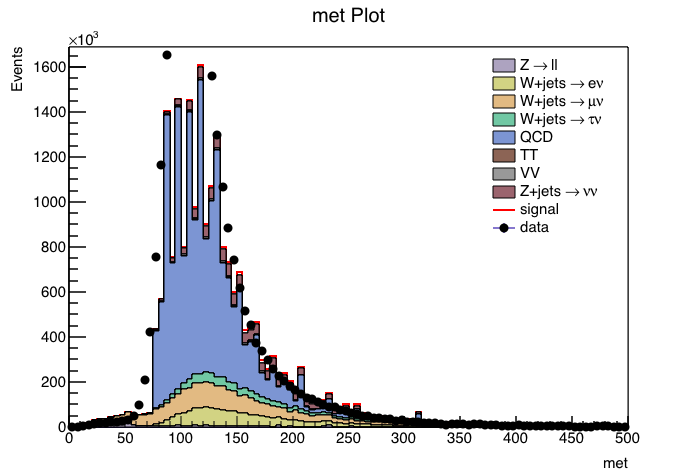
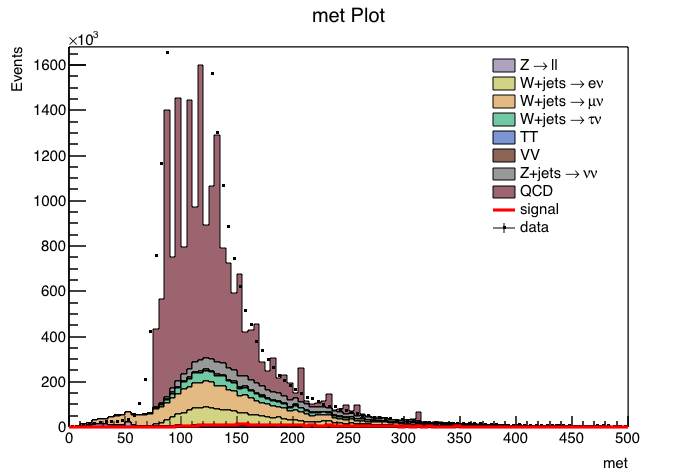
all variables present

diff --git a/include/analysis.h b/include/analysis.h
@@ -150,11 +150,79 @@ const char* data_legend = "data";
 
 //total_weight_lepveto
 
-//dijet_deta -- 0 - 8.5
-//ht 0 400
-//met -200 200
-//alljetsmet_mindphi 0 - 3.5
-//dijet_M 0 - 3000
+const char* varsss[][4] = {
+                              {"jet1_pt", "0.0", "600.0", "right"},
+                              {"jet2_pt", "0.0", "600.0", "right"},
+                              {"jet3_pt", "0.0", "600.0", "right"},
+                              {"jet1_E", "0.0", "5000.0", "right"},
+                              {"jet2_E", "0.0", "5000.0", "right"},
+                              {"jet3_E", "0.0", "5000.0", "right"},
+                              {"jet1_eta", "-5.0", "5.0", "left"},
+                              {"jet2_eta", "-5.0", "5.0", "left"},
+                              {"jet3_eta", "-5.0", "5.0", "left"},
+                              {"forward_tag_eta", "-5.0", "5.0", "left"},
+                              {"central_tag_eta", "-5.0", "5.0", "left"},
+                              {"jet1_phi", "-4.0", "4.0", "left"},
+                              {"jet2_phi", "-4.0", "4.0", "left"},
+                              {"jet3_phi", "-4.0", "4.0", "left"},
+                              {"jet_csv1", "-1.5", "1.5", "left"},
+                              {"jet_csv2", "-1.5", "1.5", "left"},
+                              {"jet_csv3", "-1.5", "1.5", "left"},
+                              {"dijet_M", "0.0", "4000.0", "right"},
+                              {"dijet_deta", "3.0", "8.0", "right"},
+                              {"dijet_sumeta", "-6.0", "6.0", "left"},
+                              {"dijet_dphi", "0.0", "4.0", "left"},
+                              {"met", "0.0", "400.0", "right"},
+                              {"met_x", "-400.0", "400.0", "left"},
+                              {"met_y", "-400.0", "400.0", "left"},
+                              {"metnomu_x", "-400.0", "400.0", "left"},
+                              {"metnomu_y", "-400.0", "400.0", "left"},
+                              {"met_significance", "0.0", "12.0", "right"},
+                              {"metnomu_significance", "2.0", "12.0", "right"},
+                              {"sumet", "0.0", "2400.0", "right"},
+                              {"ht", "0.0", "1200.0", "right"},
+                              {"ht30", "0.0", "1200.0", "right"},
+                              {"mht", "0.0", "3000.0", "right"},
+                              {"sqrt_ht", "0.0", "35.0", "right"},
+                              {"unclustered_et", "0.0", "2000.0", "right"},
+                              {"jet1met_dphi", "0.0", "3.5", "left"},
+                              {"jet2met_dphi", "0.0", "3.5", "right"},
+                              {"jet1metnomu_dphi", "0.0", "3.5", "left"},
+                              {"jet2metnomu_dphi", "0.0", "3.5", "right"},
+                              {"jetmet_mindphi", "0.0", "3.5", "right"},
+                              {"jetmetnomu_mindphi", "0.0", "3.5", "right"},
+                              {"alljetsmet_mindphi", "2.2", "3.2", "right"},
+                              {"alljetsmetnomu_mindphi", "0.0", "3.5", "right"},
+                              {"jetunclet_mindphi", "0.0", "3.5", "right"},
+                              {"metunclet_dphi", "0.0", "3.5", "right"},
+                              {"metnomuunclet_dphi", "0.0", "3.5", "right"},
+                              {"dijetmet_scalarSum_pt", "0.0", "1200.0", "right"},
+                              {"dijetmet_vectorialSum_pt", "0.0", "400.0", "right"},
+                              {"dijetmet_ptfraction", "0.0", "1.0", "right"},
+                              {"jet1met_scalarprod", "-600.0", "600.0", "right"},
+                              {"jet2met_scalarprod", "-400.0", "400.0", "left"},
+                              {"dijetmetnomu_scalarSum_pt", "0.0", "1200.0", "right"},
+                              {"dijetmetnomu_vectorialSum_pt", "0.0", "400.0", "right"},
+                              {"dijetmetnomu_ptfraction", "0.0", "1.0", "right"},
+                              {"jet1metnomu_scalarprod", "-2000.0", "2000.0", "left"},
+                              {"jet2metnomu_scalarprod", "-2000.0", "2000.0", "left"},
+                              {"n_jets_cjv_30", "0.0", "6.0", "right"},
+                              {"n_jets_cjv_20EB_30EE", "0.0", "8.0", "right"},
+                              {"n_jets_15", "0.0", "14.0", "right"},
+                              {"n_jets_30", "1.0", "10.0", "right"},
+                              {"cjvjetpt", "-10.0", "200.0", "right"},
+                              {"l1met", "0.0", "400.0", "right"},
+                              {"metnomuons", "0.0", "400.0", "right"},  
+                              {"nvetomuons", "0.0", "3.0", "right"},
+                              {"nselmuons", "0.0", "3.0", "right"},
+                              {"nvetoelectrons", "0.0", "3.0", "right"},
+                              {"nselelectrons", "0.0", "3.0", "right"},
+                              {"ntaus", "0.0", "3.0", "right"},
+                              {"m_mumu", "-20.0", "20.0", "right"},
+                              {"m_ee", "-20.0", "20.0", "right"},
+                              {"m_mumu_gen", "-20.0", "20.0", "right"},
+                              {"n_vertices", "0.0", "30.0", "right"}
+                             };
 
 #endif
 

diff --git a/include/plotting.h b/include/plotting.h
@@ -4,10 +4,9 @@
 #include <TStyle.h>
 #include <THStack.h>
 #include <TLegend.h>
-#include <TH2.h>
 #include "data_chain.h"
 
-void draw_stacked_histoplots(std::vector<DataChain*> bg_chains, DataChain* signal_chain, DataChain* data, const char* variable_name, const char* selection,const char* x_min, const char* x_max, const char* leg_pos, bool plot_signal, bool plot_background, bool plot_data) {
+void draw_stacked_histoplots(std::vector<DataChain*> bg_chains, DataChain* signal_chain, DataChain* data, const char* variable_name, const char* selection,const char* x_min, const char* x_max, const char* leg_pos) {
   //const char* plot_title = build_string({variable_name, " Plot"});
   std::string title_parts(variable_name);
   title_parts.append(" Plot");
@@ -30,28 +29,19 @@ void draw_stacked_histoplots(std::vector<DataChain*> bg_chains, DataChain* signa
   int colours[8] = {40, 41, 42, 30, 38, 28, 15, 49};
 
   std::cout << "setup canvas, legend and plot" << std::endl;
-   if(plot_background) { // checks for background input
-  	for(int i = 0; i < bg_chains.size(); i++) {
-  	  TH1F* single_bg_histo = bg_chains[i]->histo_for_stack(false, variable_name, selection, x_min, x_max, colours[i]);
-  	  hs.Add(single_bg_histo);
-  	  legend->AddEntry(single_bg_histo, bg_chains[i]->legend, "f");
-  	  std::cout << "histograms added to stack fine" << std::endl;
- 	 }
-  }
-  if(plot_signal) {
-    TH1F* signal_histo = signal_chain->histo_for_stack(true, variable_name, selection, x_min, x_max, 0);
-    hs.Add(signal_histo);
-    legend->AddEntry(signal_histo, signal_chain->legend, "l");
-    std::cout << "signal added to stack fine" << std::endl;
-  }
+  for(int i = 0; i < bg_chains.size(); i++) {
+  	TH1F* single_bg_histo = bg_chains[i]->histo_for_stack(false, variable_name, selection, x_min, x_max, colours[i]);
+  	hs.Add(single_bg_histo);
+  	legend->AddEntry(single_bg_histo, bg_chains[i]->legend, "f");
+  	std::cout << "histograms added to stack fine" << std::endl;
+ 	}
+
+  TH1F* signal_histo = signal_chain->histo_for_stack(true, variable_name, selection, x_min, x_max, 0);
+  legend->AddEntry(signal_histo, signal_chain->legend, "l");
+
   TH1F* data_histo = data->draw_data(variable_name, selection, x_min, x_max);
-  if(plot_data) {
-    legend->AddEntry(data_histo, data->legend, "lep");
+  legend->AddEntry(data_histo, data->legend, "lep");
     
-  	if(!(plot_signal&plot_background)){
- 		hs.Add(data_histo);
-  	}
-  }
   std::string file_parts(variable_name);
   file_parts.append("_");
   file_parts.append(selection);
@@ -61,6 +51,7 @@ void draw_stacked_histoplots(std::vector<DataChain*> bg_chains, DataChain* signa
 
   hs.Draw();
   data_histo->Draw("SAME");
+  signal_histo->Draw("SAME");
   std::cout << "data added to plot fine" << std::endl;
   hs.GetYaxis()->SetTitle("Events");
   hs.GetYaxis()->SetLabelSize(0.035);

diff --git a/src/main.cpp b/src/main.cpp
@@ -3,7 +3,7 @@
 #include "analysis.h"
 #include <initializer_list>
 
-void produce_graphs(bool plot_signal, bool plot_background, bool plot_data) {
+void produce_graphs() {
   DataChain* bg_zll = new DataChain(z_ll, z_ll_label, z_ll_legend);
   DataChain* bg_wjets_ev = new DataChain(wjets_ev, wjets_ev_label, wjets_ev_legend);
   DataChain* bg_wjets_muv = new DataChain(wjets_muv, wjets_muv_label, wjets_muv_legend);
@@ -17,12 +17,8 @@ void produce_graphs(bool plot_signal, bool plot_background, bool plot_data) {
   DataChain* data_chain = new DataChain(data, data_label, data_legend);
 
   const char* weight = "total_weight_lepveto";
-  const char* vars[5][4] = { 
-                        {"dijet_deta", "3.0", "8.5", "right"},
-                        {"ht", "0.0", "400.0", "left"}, 
-                        {"met", "0.0", "500.0", "right"}, 
-                        {"alljetsmet_mindphi", "0.0", "3.5", "left"}, 
-                        {"dijet_M", "0.0", "3000.0", "right"} 
+  const char* vars[1][4] = { 
+                        {"alljetsmet_mindphi", "2.2", "3.2", "right"}
                       };
 
   for(int i = 0; i < 5; i++) {
@@ -35,15 +31,15 @@ void produce_graphs(bool plot_signal, bool plot_background, bool plot_data) {
     const char* x_min = vars[i][1];
     const char* x_max = vars[i][2];
 	//create vector of datachain pointers
-  DataChain* bg_arr[] ={bg_zll, bg_wjets_ev, bg_wjets_muv, bg_wjets_tauv,bg_qcd, bg_top, bg_vv, bg_zjets_vv}; // create array of pointers
+  DataChain* bg_arr[] = {bg_zll, bg_wjets_ev, bg_wjets_muv, bg_wjets_tauv, bg_top, bg_vv, bg_zjets_vv, bg_qcd}; // create array of pointers
   std::vector<DataChain*> bg (bg_arr, bg_arr+ sizeof(bg_arr)/sizeof(DataChain*));
-  draw_stacked_histoplots(bg, mc_signal, data_chain, vars[i][0], selection, x_min, x_max, vars[i][3],plot_signal,plot_background,plot_data);
+  draw_stacked_histoplots(bg, mc_signal, data_chain, vars[i][0], selection, x_min, x_max, vars[i][3]);
   }
 }
 
 int main(int argc, char** argv) {
   TApplication theApp("tapp", &argc, argv);
-  produce_graphs(true,true,true);
+  produce_graphs();
 
   theApp.Run();
   

diff --git a/src/data_chain.cpp b/src/data_chain.cpp
@@ -39,7 +39,7 @@ TH1F* DataChain::histo_for_stack(bool is_signal, const char* variable_name, cons
 
   set_histo_style(is_signal, fill_colour);
 
-  chain->Draw(histo_id, selection); 
+  chain->Draw(histo_id, selection, "goff"); 
 
   TH1F* histo = (TH1F*)gDirectory->Get(label); // get histo from current directory
   //histo->GetXaxis()->SetRange(x_min, x_max);
@@ -65,11 +65,13 @@ TH1F* DataChain::draw_data(const char* variable_name, const char* selection, con
   const char* histo_id = draw_histo.c_str();
 
   chain->Draw(histo_id, selection, "E1"); 
-  chain->SetMarkerStyle(20);
+  chain->SetMarkerStyle(7);
   chain->SetMarkerColor(1);
+  chain->SetLineColor(1);
   gROOT->ForceStyle();
 
   TH1F* histo = (TH1F*)gDirectory->Get(label);
+  set_error_bars(histo);
 
   if (histo) {
     std::cout << "histo generated fine" << std::endl;
@@ -77,13 +79,14 @@ TH1F* DataChain::draw_data(const char* variable_name, const char* selection, con
   else {
     std::cout << "error in adding data signal" << std::endl;
   }
+
   return histo;
 }
 
 void DataChain::set_histo_style(bool is_signal, int fill_colour) {
   if(is_signal) {
     chain->SetLineColor(2);
-    chain->SetLineWidth(2);
+    chain->SetLineWidth(3);
     //chain->SetFillColorAlpha(0, 0);
   }
   else {
@@ -93,8 +96,18 @@ void DataChain::set_histo_style(bool is_signal, int fill_colour) {
 
 }
 
-double DataChain::get_data_error(TH1F* hist, binmin) {
-  double integral = hist->Integral(int binmin, hist->GetNbinsX()+1);
+TH1F* DataChain::set_error_bars(TH1F* hist) {
+  int nbins = hist->GetNbinsX();
+  
+  for(int i = 0; i < nbins; i++) {
+    double error_val = get_data_error(hist, i);
+    hist->SetBinError(i, error_val);
+  }
+  return hist;
+}
+
+double DataChain::get_data_error(TH1F* hist, int bin) {
+  double integral = hist->Integral(bin, bin + 1);
   return sqrt(integral);
 }
 

diff --git a/include/data_chain.h b/include/data_chain.h
@@ -7,6 +7,7 @@
 #include <TApplication.h>
 #include <TChain.h>
 #include <TCut.h>
+#include <TH2.h>
 
 #include <string>
 #include <iostream>
@@ -247,7 +248,8 @@ public:
   TH1F* histo_for_stack(bool is_signal, const char* variable_name, const char* selection, const char* x_min, const char* x_max, int fill_colour = 0);
   void set_histo_style(bool is_signal, int fill_colour = 0);
   TH1F* draw_data(const char* variable_name, const char* selection, const char* x_min, const char* x_max);
-  double get_data_error(TH1F* hist, binmin = 0);
+  double get_data_error(TH1F* hist, int bin);
+  TH1F* set_error_bars(TH1F* hist);
 };
 
 #endif
